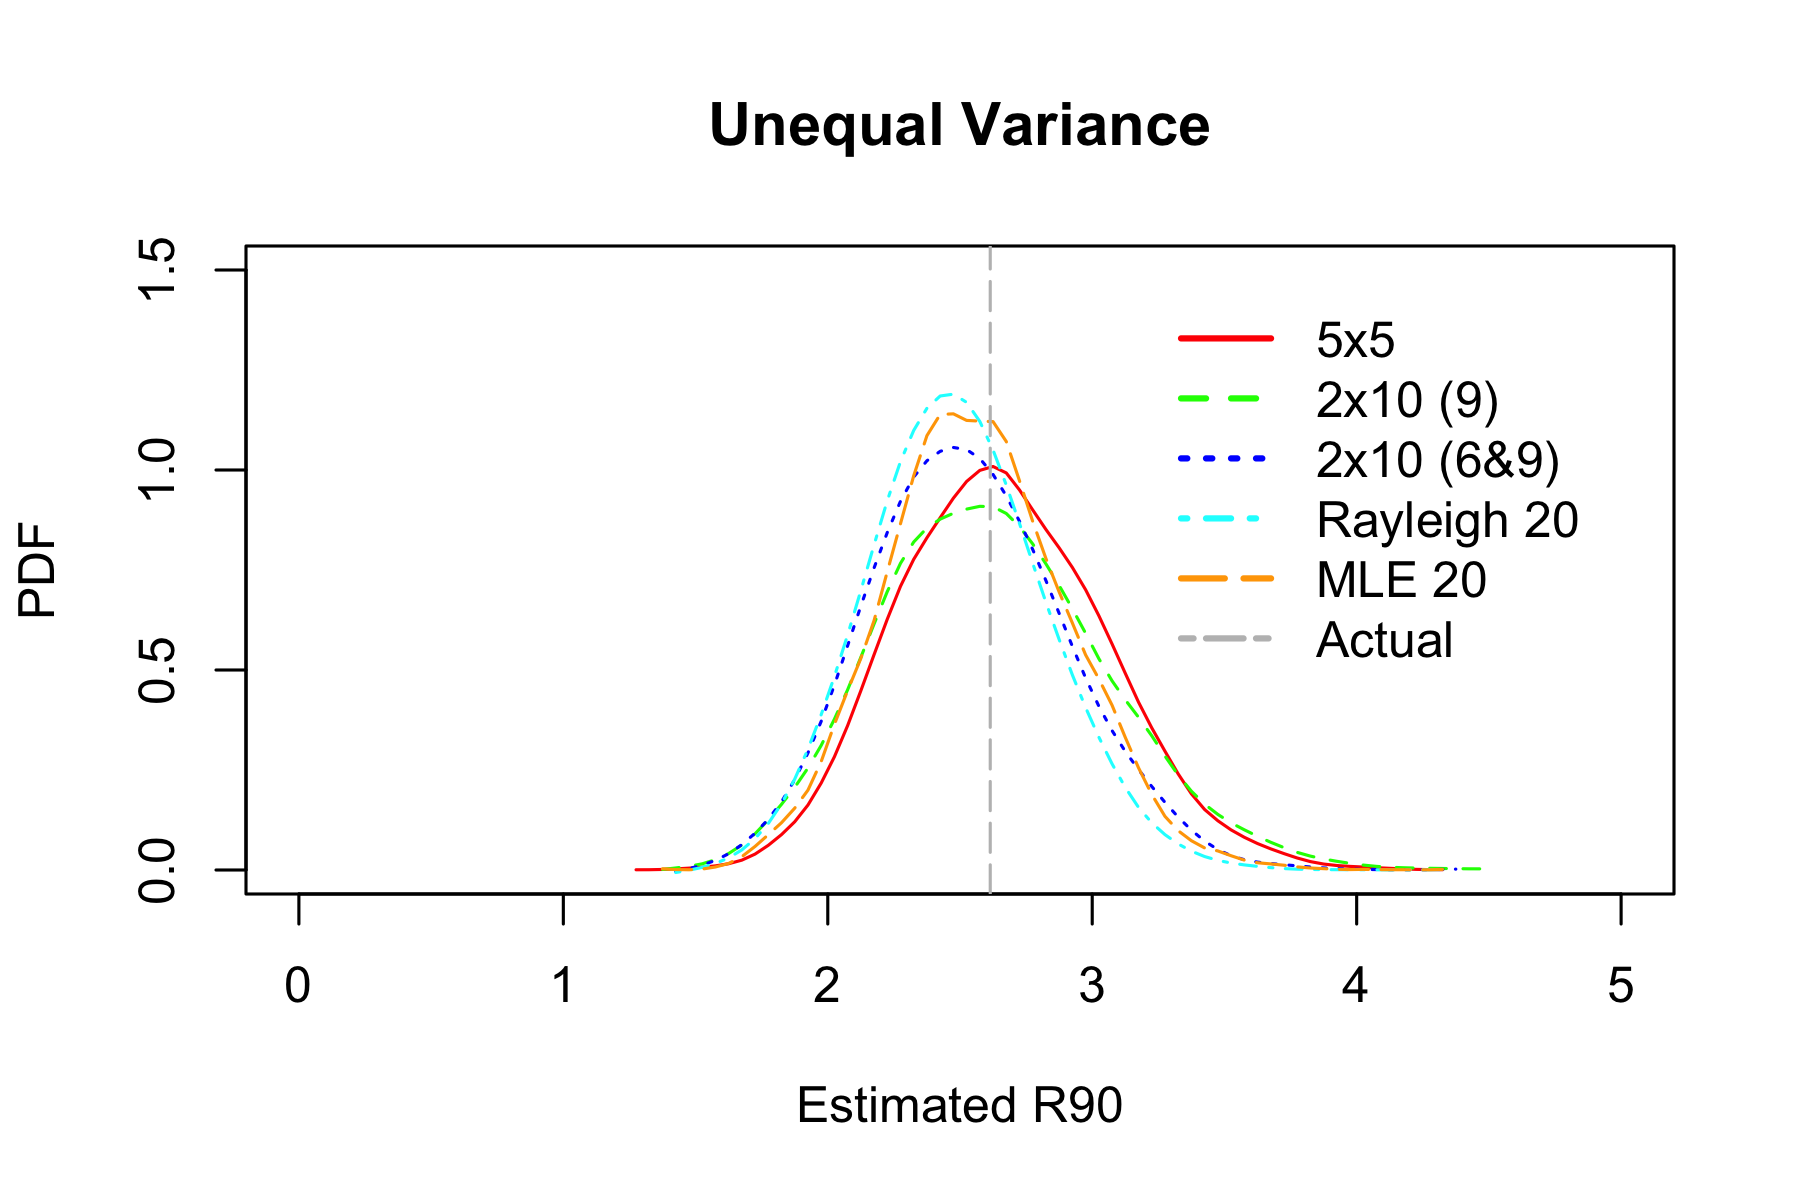
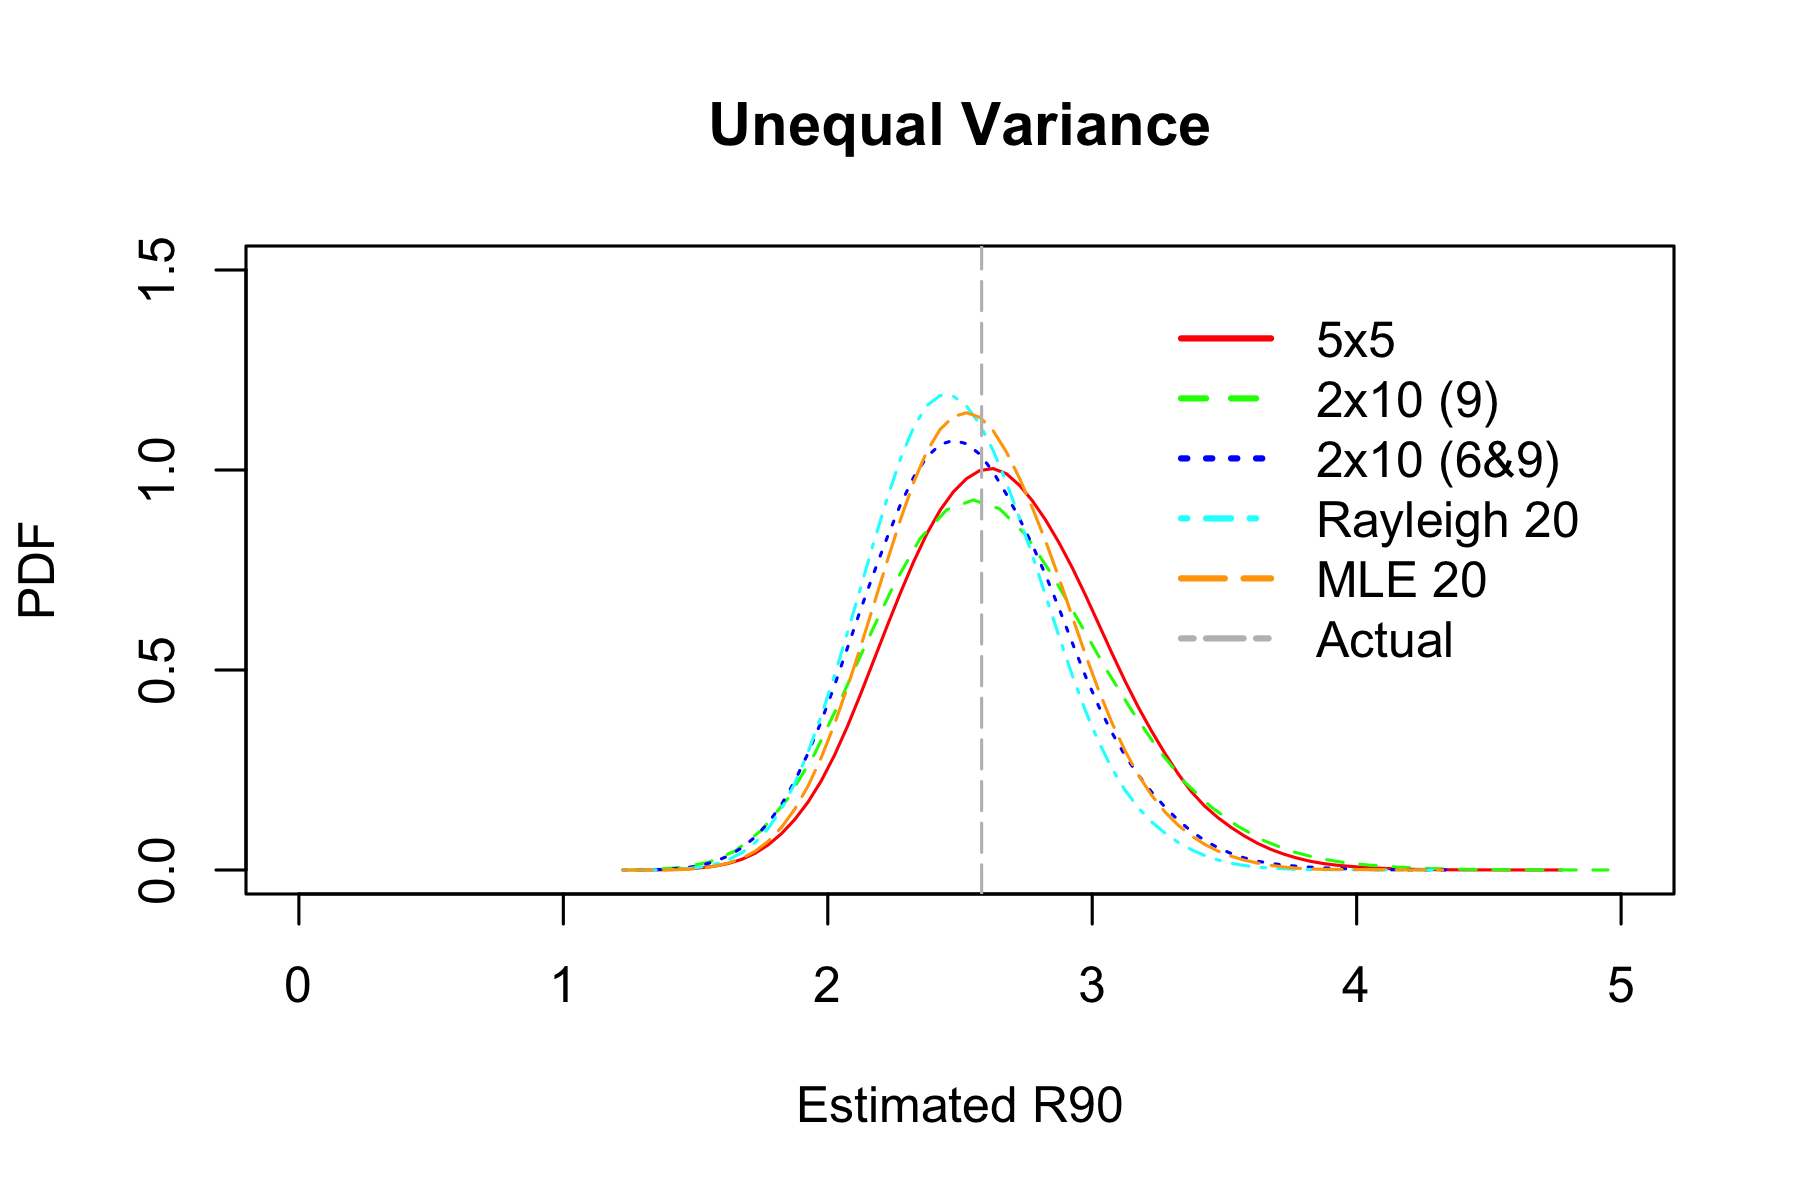
More simulations, same conclusions

diff --git a/index.html b/index.html
@@ -87,7 +87,7 @@ img {
 <p>Start with establishing the baseline. Pull impact coordinates from standard bivariate normal distibution, estimate R<sub>90</sub>, pull another impact, see if it lands inside R<sub>90</sub>. Compare root mean square error (RMSE) and mean absolute error (MAE) of different estimators.</p>
 <p>Example groups:</p>
 <p><img src="index_files/figure-html/fig_00-1.png" title="" alt="" width="900" /></p>
-<p>Distribution of R<sub>90</sub> estimates based on <span class="math">\(10^{4}\)</span> simulations:</p>
+<p>Distribution of R<sub>90</sub> estimates based on <span class="math">\(10^{5}\)</span> simulations:</p>
 <p><img src="index_files/figure-html/fig_0-1.png" title="" alt="" width="900" /></p>
 <table>
 <thead>
@@ -101,33 +101,33 @@ img {
 <tbody>
 <tr class="odd">
 <td align="left">5x5</td>
-<td align="left">90.4%</td>
-<td align="left">0.276</td>
-<td align="left">0.468</td>
+<td align="left">90.2%</td>
+<td align="left">0.274</td>
+<td align="left">0.466</td>
 </tr>
 <tr class="even">
 <td align="left">2x10 (9)</td>
-<td align="left">90.4%</td>
-<td align="left">0.31</td>
-<td align="left">0.494</td>
+<td align="left">90.1%</td>
+<td align="left">0.308</td>
+<td align="left">0.493</td>
 </tr>
 <tr class="odd">
 <td align="left">2x10 (6&amp;9)</td>
-<td align="left">90.4%</td>
-<td align="left">0.278</td>
+<td align="left">90.1%</td>
+<td align="left">0.277</td>
 <td align="left">0.469</td>
 </tr>
 <tr class="even">
 <td align="left">Rayleigh 20</td>
-<td align="left">90.6%</td>
-<td align="left">0.266</td>
-<td align="left">0.46</td>
+<td align="left">90.2%</td>
+<td align="left">0.264</td>
+<td align="left">0.458</td>
 </tr>
 <tr class="odd">
 <td align="left">MLE 20</td>
-<td align="left">90.6%</td>
-<td align="left">0.255</td>
-<td align="left">0.45</td>
+<td align="left">90.2%</td>
+<td align="left">0.253</td>
+<td align="left">0.448</td>
 </tr>
 </tbody>
 </table>
@@ -151,33 +151,33 @@ img {
 <tbody>
 <tr class="odd">
 <td align="left">5x5</td>
-<td align="left">79.1%</td>
-<td align="left">0.464</td>
-<td align="left">0.634</td>
+<td align="left">79.2%</td>
+<td align="left">0.475</td>
+<td align="left">0.643</td>
 </tr>
 <tr class="even">
 <td align="left">2x10 (9)</td>
-<td align="left">90.8%</td>
-<td align="left">0.363</td>
-<td align="left">0.535</td>
+<td align="left">90.5%</td>
+<td align="left">0.357</td>
+<td align="left">0.531</td>
 </tr>
 <tr class="odd">
 <td align="left">2x10 (6&amp;9)</td>
-<td align="left">91.1%</td>
-<td align="left">0.341</td>
-<td align="left">0.52</td>
+<td align="left">90.9%</td>
+<td align="left">0.334</td>
+<td align="left">0.515</td>
 </tr>
 <tr class="even">
 <td align="left">Rayleigh 20</td>
-<td align="left">91.2%</td>
-<td align="left">0.337</td>
-<td align="left">0.516</td>
+<td align="left">91%</td>
+<td align="left">0.33</td>
+<td align="left">0.512</td>
 </tr>
 <tr class="odd">
 <td align="left">MLE 20</td>
-<td align="left">90.9%</td>
-<td align="left">0.306</td>
-<td align="left">0.493</td>
+<td align="left">90.7%</td>
+<td align="left">0.301</td>
+<td align="left">0.489</td>
 </tr>
 </tbody>
 </table>
@@ -206,33 +206,33 @@ img {
 <tbody>
 <tr class="odd">
 <td align="left">5x5</td>
-<td align="left">91.7%</td>
-<td align="left">1.02</td>
-<td align="left">0.857</td>
+<td align="left">91.8%</td>
+<td align="left">1.03</td>
+<td align="left">0.86</td>
 </tr>
 <tr class="even">
 <td align="left">2x10 (9)</td>
-<td align="left">89%</td>
-<td align="left">0.906</td>
-<td align="left">0.713</td>
+<td align="left">89.2%</td>
+<td align="left">0.915</td>
+<td align="left">0.716</td>
 </tr>
 <tr class="odd">
 <td align="left">2x10 (6&amp;9)</td>
-<td align="left">89.1%</td>
-<td align="left">0.601</td>
-<td align="left">0.616</td>
+<td align="left">88.9%</td>
+<td align="left">0.605</td>
+<td align="left">0.618</td>
 </tr>
 <tr class="even">
 <td align="left">Rayleigh 20</td>
-<td align="left">90.6%</td>
-<td align="left">0.631</td>
-<td align="left">0.677</td>
+<td align="left">90.5%</td>
+<td align="left">0.633</td>
+<td align="left">0.679</td>
 </tr>
 <tr class="odd">
 <td align="left">MLE 20</td>
-<td align="left">91.7%</td>
+<td align="left">91.5%</td>
 <td align="left">1.31</td>
-<td align="left">0.941</td>
+<td align="left">0.944</td>
 </tr>
 </tbody>
 </table>
@@ -255,33 +255,33 @@ img {
 <tbody>
 <tr class="odd">
 <td align="left">5x5</td>
-<td align="left">89.6%</td>
-<td align="left">0.399</td>
-<td align="left">0.563</td>
+<td align="left">89.8%</td>
+<td align="left">0.404</td>
+<td align="left">0.565</td>
 </tr>
 <tr class="even">
 <td align="left">2x10 (9)</td>
-<td align="left">88.6%</td>
+<td align="left">89%</td>
 <td align="left">0.437</td>
-<td align="left">0.589</td>
+<td align="left">0.588</td>
 </tr>
 <tr class="odd">
 <td align="left">2x10 (6&amp;9)</td>
-<td align="left">87.6%</td>
-<td align="left">0.384</td>
-<td align="left">0.556</td>
+<td align="left">87.9%</td>
+<td align="left">0.375</td>
+<td align="left">0.549</td>
 </tr>
 <tr class="even">
 <td align="left">Rayleigh 20</td>
-<td align="left">87.3%</td>
-<td align="left">0.359</td>
-<td align="left">0.538</td>
+<td align="left">87.6%</td>
+<td align="left">0.347</td>
+<td align="left">0.529</td>
 </tr>
 <tr class="odd">
 <td align="left">MLE 20</td>
-<td align="left">88.3%</td>
-<td align="left">0.353</td>
-<td align="left">0.531</td>
+<td align="left">88.5%</td>
+<td align="left">0.347</td>
+<td align="left">0.527</td>
 </tr>
 </tbody>
 </table>
@@ -302,33 +302,33 @@ img {
 <tbody>
 <tr class="odd">
 <td align="left">5x5</td>
-<td align="left">88.9%</td>
-<td align="left">1.11</td>
-<td align="left">0.899</td>
+<td align="left">88.7%</td>
+<td align="left">1.12</td>
+<td align="left">0.9</td>
 </tr>
 <tr class="even">
 <td align="left">2x10 (9)</td>
 <td align="left">89.3%</td>
-<td align="left">1</td>
-<td align="left">0.769</td>
+<td align="left">0.996</td>
+<td align="left">0.765</td>
 </tr>
 <tr class="odd">
 <td align="left">2x10 (6&amp;9)</td>
 <td align="left">89.5%</td>
-<td align="left">0.678</td>
-<td align="left">0.663</td>
+<td align="left">0.677</td>
+<td align="left">0.661</td>
 </tr>
 <tr class="even">
 <td align="left">Rayleigh 20</td>
-<td align="left">91.5%</td>
-<td align="left">0.792</td>
-<td align="left">0.756</td>
+<td align="left">91.3%</td>
+<td align="left">0.779</td>
+<td align="left">0.749</td>
 </tr>
 <tr class="odd">
 <td align="left">MLE 20</td>
-<td align="left">91.9%</td>
-<td align="left">1.53</td>
-<td align="left">0.998</td>
+<td align="left">91.8%</td>
+<td align="left">1.5</td>
+<td align="left">0.989</td>
 </tr>
 </tbody>
 </table>
@@ -349,27 +349,27 @@ img {
 <tbody>
 <tr class="odd">
 <td align="left">2x10 (9)</td>
-<td align="left">89%</td>
-<td align="left">10.3</td>
-<td align="left">2.62</td>
+<td align="left">89.4%</td>
+<td align="left">10.2</td>
+<td align="left">2.61</td>
 </tr>
 <tr class="even">
 <td align="left">2x10 (6&amp;9)</td>
-<td align="left">87.8%</td>
-<td align="left">7.91</td>
+<td align="left">88.2%</td>
+<td align="left">7.87</td>
 <td align="left">2.41</td>
 </tr>
 <tr class="odd">
 <td align="left">Rayleigh 20</td>
-<td align="left">87.8%</td>
-<td align="left">8.24</td>
+<td align="left">88.1%</td>
+<td align="left">8.23</td>
 <td align="left">2.49</td>
 </tr>
 <tr class="even">
 <td align="left">MLE 20</td>
-<td align="left">89.5%</td>
-<td align="left">14.8</td>
-<td align="left">3.06</td>
+<td align="left">89.8%</td>
+<td align="left">14.7</td>
+<td align="left">3.05</td>
 </tr>
 </tbody>
 </table>
